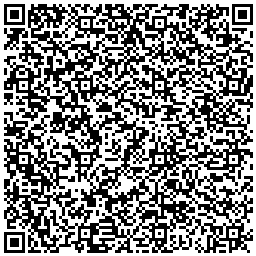
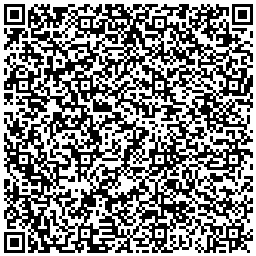
更新

diff --git a/README.md b/README.md
@@ -17,7 +17,7 @@
 ## 此源包含小程序列表
 | 小程序  | 二维码 |
 | ------------- | ------------- |
-| [88影视](https://share.dagouzhi.com/#/pages/index/index?data=%7B%22type%22%3A%22app%22%2C%22name%22%3A%2288%E5%BD%B1%E8%A7%86%22%2C%22appid%22%3A%2288_movie%22%2C%22version%22%3A%220.0.24%22%2C%22appUrlConfig%22%3A%22https%3A%2F%2Fraw.githubusercontent.com%2Fhtyf-mp-community%2Fdemo%2Fmain%2F88_movie%2Fapp.json%22%2C%22zipUrl%22%3A%22https%3A%2F%2Fraw.githubusercontent.com%2Fhtyf-mp-community%2Fdemo%2Fmain%2F88_movie%2Fdist.dgz%22%7D)  | [![小程序码](./88_movie/qrcode.png)](https://share.dagouzhi.com/#/pages/index/index?data=%7B%22type%22%3A%22app%22%2C%22name%22%3A%2288%E5%BD%B1%E8%A7%86%22%2C%22appid%22%3A%2288_movie%22%2C%22version%22%3A%220.0.24%22%2C%22appUrlConfig%22%3A%22https%3A%2F%2Fraw.githubusercontent.com%2Fhtyf-mp-community%2Fdemo%2Fmain%2F88_movie%2Fapp.json%22%2C%22zipUrl%22%3A%22https%3A%2F%2Fraw.githubusercontent.com%2Fhtyf-mp-community%2Fdemo%2Fmain%2F88_movie%2Fdist.dgz%22%7D) |
+| [88影视](https://share.dagouzhi.com/#/pages/index/index?data=%7B%22type%22%3A%22app%22%2C%22name%22%3A%2288%E5%BD%B1%E8%A7%86%22%2C%22appid%22%3A%2288_movie%22%2C%22version%22%3A%220.0.25%22%2C%22appUrlConfig%22%3A%22https%3A%2F%2Fraw.githubusercontent.com%2Fhtyf-mp-community%2Fdemo%2Fmain%2F88_movie%2Fapp.json%22%2C%22zipUrl%22%3A%22https%3A%2F%2Fraw.githubusercontent.com%2Fhtyf-mp-community%2Fdemo%2Fmain%2F88_movie%2Fdist.dgz%22%7D)  | [![小程序码](./88_movie/qrcode.png)](https://share.dagouzhi.com/#/pages/index/index?data=%7B%22type%22%3A%22app%22%2C%22name%22%3A%2288%E5%BD%B1%E8%A7%86%22%2C%22appid%22%3A%2288_movie%22%2C%22version%22%3A%220.0.25%22%2C%22appUrlConfig%22%3A%22https%3A%2F%2Fraw.githubusercontent.com%2Fhtyf-mp-community%2Fdemo%2Fmain%2F88_movie%2Fapp.json%22%2C%22zipUrl%22%3A%22https%3A%2F%2Fraw.githubusercontent.com%2Fhtyf-mp-community%2Fdemo%2Fmain%2F88_movie%2Fdist.dgz%22%7D) |
 | [动漫基地](https://share.dagouzhi.com/#/pages/index/index?data=%7B%22type%22%3A%22app%22%2C%22name%22%3A%22%E5%8A%A8%E6%BC%AB%E5%9F%BA%E5%9C%B0%22%2C%22appid%22%3A%22animation_996%22%2C%22version%22%3A%220.0.52%22%2C%22appUrlConfig%22%3A%22https%3A%2F%2Fraw.githubusercontent.com%2Fhtyf-mp-community%2Fdemo%2Fmain%2Fanimation_996%2Fapp.json%22%2C%22zipUrl%22%3A%22https%3A%2F%2Fraw.githubusercontent.com%2Fhtyf-mp-community%2Fdemo%2Fmain%2Fanimation_996%2Fdist.dgz%22%7D)  | [![小程序码](./animation_996/qrcode.png)](https://share.dagouzhi.com/#/pages/index/index?data=%7B%22type%22%3A%22app%22%2C%22name%22%3A%22%E5%8A%A8%E6%BC%AB%E5%9F%BA%E5%9C%B0%22%2C%22appid%22%3A%22animation_996%22%2C%22version%22%3A%220.0.52%22%2C%22appUrlConfig%22%3A%22https%3A%2F%2Fraw.githubusercontent.com%2Fhtyf-mp-community%2Fdemo%2Fmain%2Fanimation_996%2Fapp.json%22%2C%22zipUrl%22%3A%22https%3A%2F%2Fraw.githubusercontent.com%2Fhtyf-mp-community%2Fdemo%2Fmain%2Fanimation_996%2Fdist.dgz%22%7D) |
 | [漫画基地](https://share.dagouzhi.com/#/pages/index/index?data=%7B%22type%22%3A%22app%22%2C%22name%22%3A%22%E6%BC%AB%E7%94%BB%E5%9F%BA%E5%9C%B0%22%2C%22appid%22%3A%22caricature_996%22%2C%22version%22%3A%220.7.5%22%2C%22appUrlConfig%22%3A%22https%3A%2F%2Fraw.githubusercontent.com%2Fhtyf-mp-community%2FMangaReader%2Fmaster%2Fdgz%2Fbuild%2Foutputs%2Fapp.json%22%2C%22zipUrl%22%3A%22https%3A%2F%2Fraw.githubusercontent.com%2Fhtyf-mp-community%2FMangaReader%2Fmaster%2Fdgz%2Fbuild%2Foutputs%2Fdist.dgz%22%7D)  | [![小程序码](./caricature_996/qrcode.png)](https://share.dagouzhi.com/#/pages/index/index?data=%7B%22type%22%3A%22app%22%2C%22name%22%3A%22%E6%BC%AB%E7%94%BB%E5%9F%BA%E5%9C%B0%22%2C%22appid%22%3A%22caricature_996%22%2C%22version%22%3A%220.7.5%22%2C%22appUrlConfig%22%3A%22https%3A%2F%2Fraw.githubusercontent.com%2Fhtyf-mp-community%2FMangaReader%2Fmaster%2Fdgz%2Fbuild%2Foutputs%2Fapp.json%22%2C%22zipUrl%22%3A%22https%3A%2F%2Fraw.githubusercontent.com%2Fhtyf-mp-community%2FMangaReader%2Fmaster%2Fdgz%2Fbuild%2Foutputs%2Fdist.dgz%22%7D) |
 | [Game模板](https://share.dagouzhi.com/#/pages/index/index?data=%7B%22type%22%3A%22game%22%2C%22name%22%3A%22Game%E6%A8%A1%E6%9D%BF%22%2C%22projectname%22%3A%22Game%E6%A8%A1%E6%9D%BF%22%2C%22appid%22%3A%22__game_temp_appid__%22%2C%22appUrlConfig%22%3A%22https%3A%2F%2Fraw.githubusercontent.com%2Fhtyf-mp-community%2Fhtyf-mp%2Fmain%2Fmini-game-template%2Fdgz%2Fbuild%2Foutputs%2Fapp.json%22%2C%22zipUrl%22%3A%22https%3A%2F%2Fraw.githubusercontent.com%2Fhtyf-mp-community%2Fhtyf-mp%2Fmain%2Fmini-game-template%2Fdgz%2Fbuild%2Foutputs%2Fdist.dgz%22%2C%22version%22%3A%223.6.0%22%7D)  | [![小程序码](./game/qrcode.png)](https://share.dagouzhi.com/#/pages/index/index?data=%7B%22type%22%3A%22game%22%2C%22name%22%3A%22Game%E6%A8%A1%E6%9D%BF%22%2C%22projectname%22%3A%22Game%E6%A8%A1%E6%9D%BF%22%2C%22appid%22%3A%22__game_temp_appid__%22%2C%22appUrlConfig%22%3A%22https%3A%2F%2Fraw.githubusercontent.com%2Fhtyf-mp-community%2Fhtyf-mp%2Fmain%2Fmini-game-template%2Fdgz%2Fbuild%2Foutputs%2Fapp.json%22%2C%22zipUrl%22%3A%22https%3A%2F%2Fraw.githubusercontent.com%2Fhtyf-mp-community%2Fhtyf-mp%2Fmain%2Fmini-game-template%2Fdgz%2Fbuild%2Foutputs%2Fdist.dgz%22%2C%22version%22%3A%223.6.0%22%7D) |
